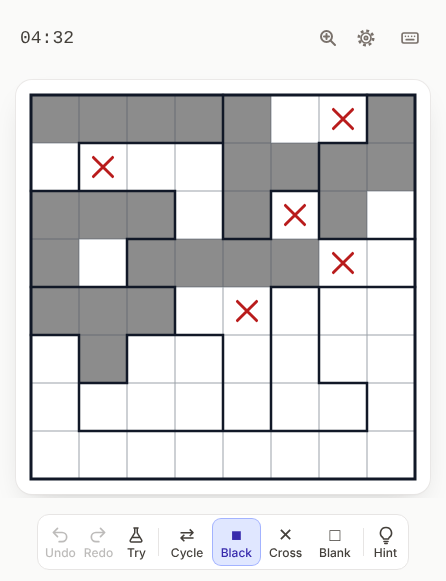
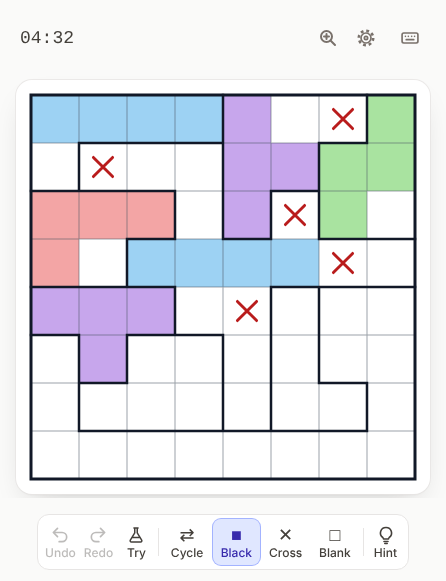
Close the finished Pinwheel galaxies and colour Tetroid's pieces in the screenshots
The coloured galaxies in the Pinwheel screenshots lacked their bottom
lines: only edges inside the upper rows were drawn. Galaxies that lie
wholly in those rows are now outlined all round. The Tetroid screenshot
shows the pieces in their colours (Color tetrominoes switched on).

Claude-Session: https://claude.ai/code/session_01LTkkJMa3fjsCwV6s9cSEBN

Changed region(s): [[0.0583, 0.1549, 0.9327, 0.6816]]

diff --git a/e2e-screenshots/positions.ts b/e2e-screenshots/positions.ts
@@ -71,35 +71,37 @@ export function tetroid(type = '8n', share = 0.55): Position {
 }
 
 /**
- * Pinwheel: the lines between the regions of the upper rows, the regions that lie wholly in
- * them coloured.
+ * Pinwheel: the lines between the regions of the upper rows, the regions that lie wholly in them
+ * outlined all round and every other one of them coloured.
  */
 export function pinwheel(type = '7n', rows = 4): Position {
 	const { id, puzzle } = first<PinwheelPuzzle>('pinwheel', type);
 	const [owner] = solvePinwheel(puzzle, { limit: 1, branch: true }).solutions;
 	const { width: w, height: h } = puzzle;
-	const edge = (a: number, b: number, shown: boolean) =>
-		shown && owner[a] !== owner[b] ? LINE : OPEN;
+	// The regions that lie wholly in the upper rows.
+	const lowest = new Map<number, number>();
+	owner.forEach((o, c) => lowest.set(o, Math.max(lowest.get(o) ?? 0, row(c, w))));
+	const finished = [...lowest].filter(([, r]) => r < rows).map(([o]) => o);
+	const done = (c: number) => finished.includes(owner[c]);
+	const edge = (a: number, b: number) =>
+		owner[a] !== owner[b] && ((row(a, w) < rows && row(b, w) < rows) || done(a) || done(b))
+			? LINE
+			: OPEN;
 	// Horizontal edge (i, j) lies between cells (i - 1, j) and (i, j); vertical (i, j) between
 	// (i, j - 1) and (i, j). The border is never marked.
 	const hEdges = Array.from({ length: (h + 1) * w }, (_, k) => {
 		const i = Math.floor(k / w);
 		const j = k % w;
-		if (i === 0 || i === h) return OPEN;
-		return edge((i - 1) * w + j, i * w + j, i < rows);
+		return i === 0 || i === h ? OPEN : edge((i - 1) * w + j, i * w + j);
 	});
 	const vEdges = Array.from({ length: h * (w + 1) }, (_, k) => {
 		const i = Math.floor(k / (w + 1));
 		const j = k % (w + 1);
-		if (j === 0 || j === w) return OPEN;
-		return edge(i * w + j - 1, i * w + j, i < rows);
+		return j === 0 || j === w ? OPEN : edge(i * w + j - 1, i * w + j);
 	});
-	// Every other region that lies wholly in the upper rows, in the first colours.
-	const lowest = new Map<number, number>();
-	owner.forEach((o, c) => lowest.set(o, Math.max(lowest.get(o) ?? 0, row(c, w))));
-	const coloured = [...lowest].filter(([, r]) => r < rows).map(([o]) => o);
+	// Every other finished region, in the first colours.
 	const colour = (o: number) => {
-		const k = coloured.indexOf(o);
+		const k = finished.indexOf(o);
 		return k >= 0 && k % 2 === 0 ? ((k / 2) % 4) + 1 : 0;
 	};
 	return {

diff --git a/e2e-screenshots/readme.e2e.ts b/e2e-screenshots/readme.e2e.ts
@@ -24,6 +24,8 @@ interface Options {
 	layout?: 'standard' | 'auto';
 	/** Whether to wait for the game board. */
 	board?: boolean;
+	/** Game settings switched on, by game. */
+	settings?: Record<string, string[]>;
 }
 
 /**
@@ -51,9 +53,10 @@ test.use({
 /** Opens `path` as a returning player would see it: no first-visit tutorials. */
 async function open(page: Page, path: string, options: Options = {}) {
 	const { look = 'classic', night = false, layout = 'standard', board = false } = options;
+	const settings = options.settings ?? {};
 	await page.clock.setFixedTime(NOW);
 	await page.addInitScript(
-		([look, night, layout]) => {
+		([look, night, layout, settings]) => {
 			localStorage.setItem('vp:look', JSON.stringify(look));
 			localStorage.setItem('vp:night', JSON.stringify(night));
 			if (layout !== 'auto') localStorage.setItem('vp:layout', JSON.stringify(layout));
@@ -61,8 +64,12 @@ async function open(page: Page, path: string, options: Options = {}) {
 			for (const game of ['tetroid', 'pinwheel', 'sudoku', 'loop', 'pipes']) {
 				localStorage.setItem(`vp:tutorialSeen:${game}`, 'true');
 			}
+			for (const [game, keys] of Object.entries(settings)) {
+				const values = Object.fromEntries(keys.map((key) => [key, true]));
+				localStorage.setItem(`vp:settings:${game}`, JSON.stringify({ values, updatedAt: 1 }));
+			}
 		},
-		[look, night, layout] as const
+		[look, night, layout, settings] as const
 	);
 	await page.route('**/*', async (route) => {
 		if (route.request().resourceType() !== 'document') return route.fallback();
@@ -145,6 +152,9 @@ test('home page', async ({ page }) => {
 	await snap(page, 'home.png', 'full');
 });
 
+/** Settings the games are shown with: Tetroid's pieces in their colours. */
+const GAME_SETTINGS = { tetroid: ['colorTetrominoes'] };
+
 test.describe('games', () => {
 	for (const [name, position] of Object.entries({
 		tetroid: () => positions.tetroid(),
@@ -155,7 +165,7 @@ test.describe('games', () => {
 		pipes: () => positions.pipes()
 	})) {
 		test(name, async ({ page }) => {
-			await open(page, position().path, { board: true });
+			await open(page, position().path, { board: true, settings: GAME_SETTINGS });
 			await playFor(page);
 			await snap(page, `${name}.png`, await gameArea(page));
 		});
